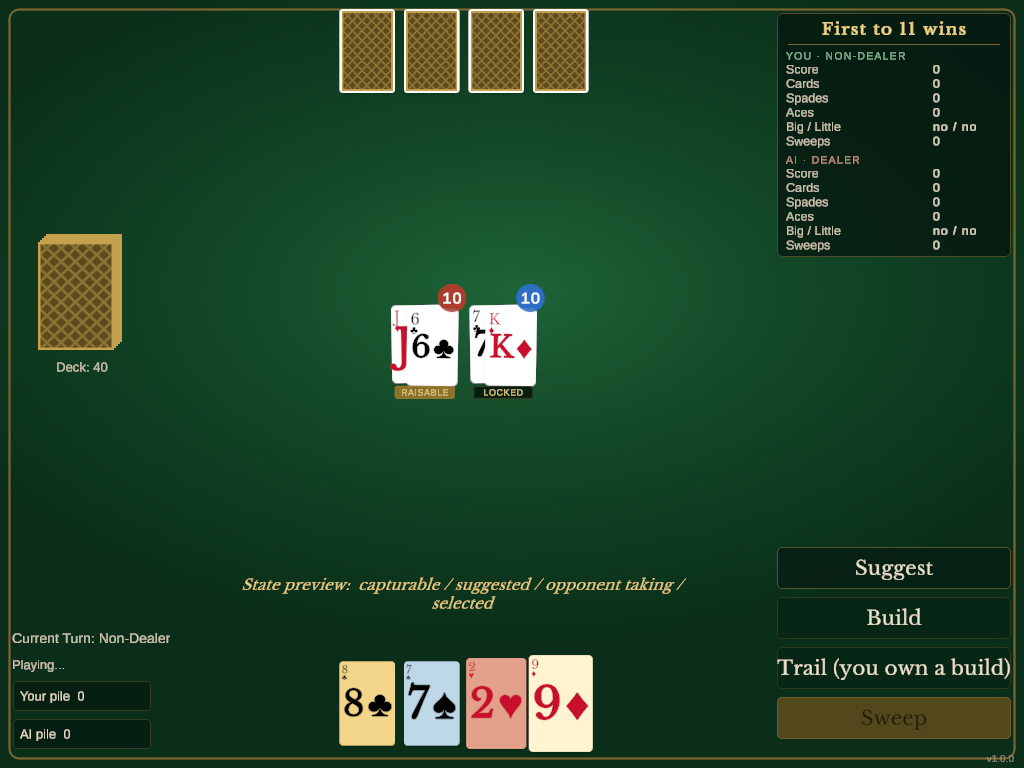
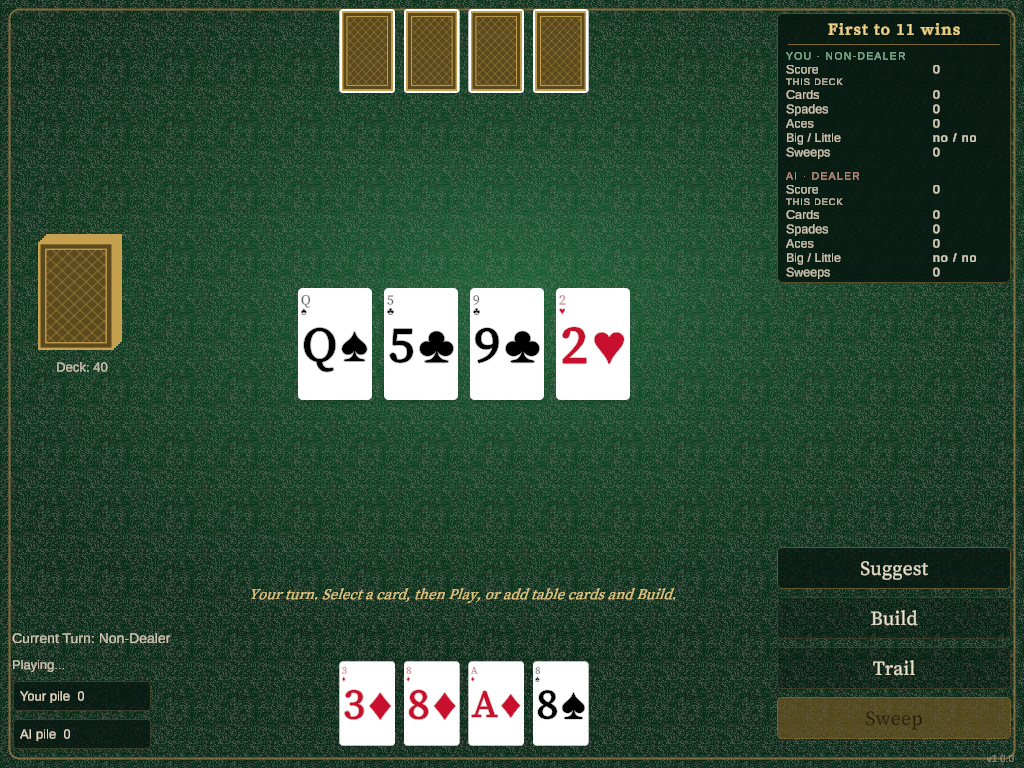
Photograph the build tags and card states in a real game, not a staged one
The plan has carried an open item since the Parlor port: the four card states and
the build tags compile and are wired to the right call sites, but had never been
seen on screen. Everything photographed so far came from an opening deal or from
a board staged by CasinoStatePreview, which proves the code runs, not that it is
connected to live game state.

CasinoAutoPlay now screenshots the first build of a game. It waits 1.2s first,
because firing the instant the build exists caught the table cards mid-scale:
honest, but useless as a reference shot.

The result (docs/design/parlor-build-inplay.png) turned out to cover more than
the build tags. In one frame, from genuine play: a player-owned build badge in
blue, against the AI's red badge captured in the same session, so both ownership
colours are confirmed; the RAISABLE tag that distinguishes a malleable single
build from a locked multi; and a table card tinted rust because the opponent is
about to take it.

Also checked in the shipped-UI shots that were only sitting in the gitignored
screenshots folder: round summary, game over, and the three layout profiles, with
a README table saying what each one is evidence of and how to retake it.

Stage 6 (DesignSync library) is parked, with the reason written down rather than
left as a silent gap. Its precondition was that the component vocabulary stops
moving, and in one day the modals went opaque and gained a scrim, the stat block
[…]

diff --git a/Assets/Scripts/CasinoAutoPlay.cs b/Assets/Scripts/CasinoAutoPlay.cs
@@ -53,6 +53,7 @@ public class CasinoAutoPlay : MonoBehaviour
 
     private static bool probeOnly;
     private int moves, rounds;
+    private bool shotBuild;
 
     [RuntimeInitializeOnLoadMethod(RuntimeInitializeLoadType.AfterSceneLoad)]
     private static void Install()
@@ -129,6 +130,25 @@ public class CasinoAutoPlay : MonoBehaviour
                 ui.ContinueSummary();
                 yield return new WaitForSecondsRealtime(MoveDelay);
                 continue;
+            }
+
+            // The build tags (RAISABLE / LOCKED) and the card-state colours have
+            // only ever been photographed on a board staged by CasinoStatePreview.
+            // A real build, made by real play, is the thing that proves they are
+            // wired to the live state and not just to the preview harness.
+            if (!shotBuild)
+            {
+                var builds = gm.GetActiveBuilds();
+                if (builds != null && builds.Count > 0)
+                {
+                    shotBuild = true;
+                    Mark($"first build on the table ({builds.Count}); capturing");
+                    // Let the tweens land. Firing the instant the build exists
+                    // caught table cards mid-scale, which is honest but useless
+                    // as a reference shot of the build tags.
+                    yield return new WaitForSecondsRealtime(1.2f);
+                    ScreenshotCapture.Capture("autoplay-build");
+                }
             }
 
             if (!gm.IsWaitingForHumanInput())

diff --git a/docs/UI-DESIGN-PLAN.md b/docs/UI-DESIGN-PLAN.md
@@ -1,9 +1,28 @@
 # Casino UI Design Plan
 
 Working plan for redesigning the game UI using Claude Code's design tooling.
-Written 2026-08-04. Status: **Direction A (Parlor) chosen. Stages 0-3 done,
-Stage 4 engine + first port landed. Remaining: type (Stage 5), portrait
-verification, card sizing from the profile.**
+Written 2026-08-04, status updated 2026-08-05.
+
+**Status: Direction A (Parlor) chosen. Stages 0 through 5 are done. Stage 6 is
+parked deliberately (see below). The UI has now been driven through complete
+games rather than opening deals, which is what surfaced the remaining defects.**
+
+What changed on 2026-08-05, once `CasinoAutoPlay` could finish a game:
+
+- The end of a game had never been seen. The game-over panel was an empty box
+  with a stock white button, and the result lived in 13pt corner text.
+- Modal panels at 0.96 alpha let the white cards behind them read through as
+  card-shaped patches. Both are opaque now, over a scrim.
+- The score panel's per-deck counts read as a career total that had reset;
+  they carry a `THIS DECK` label, which cost a row and a taller panel in all
+  three profiles.
+- Portrait's stat value column was a percentage tuned for a landscape rail, so
+  every number sat half a screen from its label.
+
+Two editor traps were fixed and are documented in `CLAUDE.md`: `runInBackground`
+was off (Play stops when the editor loses focus, which looks exactly like a
+hang), and `AutoVerifyPlay` could wedge the editor by restarting Play while a
+mode change was still in flight.
 
 ## Decisions already made (by Rick, 2026-08-04)
 
@@ -235,9 +254,14 @@ diffing the real `layout-report.txt` against the spec numbers.
   every path that makes a card goes through it or `SizeCard`: hand and table cards
   (`UIManager.cs:1426,1468`), deal ghosts (`:1207`), and build minis, which derive
   from `CardSize(0.7f)` rather than a second hardcoded number (`:1534`).
-- The four card states are verified to compile and to be wired to the right call
-  sites, but have not been seen on screen; that needs playing a hand with a build
-  on the table.
+- ~~The four card states have not been seen on screen~~ Resolved 2026-08-05 by
+  `CasinoAutoPlay`, which now screenshots the first build of a game once its
+  tweens settle. `docs/design/parlor-build-inplay.png` shows, in genuine play
+  rather than a staged board: a player-owned build badge in blue (the AI's is
+  red, captured in the same session), the `RAISABLE` tag distinguishing a single
+  build from a locked multi, and a table card tinted rust because the opponent is
+  about to take it. Staged previews proved these compiled; only a real game
+  proves they are wired to live state.
 
 **Stage 5 — Art assets. LANDED 2026-08-04, procedurally.**
 
@@ -263,9 +287,17 @@ a raster at fixed resolution.
 Remaining, if wanted: title art (there is no title screen), and a felt weave with
 direction rather than isotropic noise.
 
-**Stage 6 — DesignSync library**, only once the component vocabulary stops moving.
-Maintaining HTML components mirroring Unity components is real duplication cost and
-is only worth paying against a settled vocabulary.
+**Stage 6 — DesignSync library. PARKED, deliberately, 2026-08-05.**
+
+The condition for starting was that the component vocabulary stops moving. It has
+not. In a single day the modal panels went opaque and gained a scrim, the stat
+block grew a row and a scope label, the score zone changed height in all three
+profiles, and the game-over panel went from an empty box to three elements plus a
+themed button. Mirroring that in HTML now means maintaining two copies of a design
+still in flux, and the mirror would have been wrong four times over.
+
+Revisit after a stretch where a full autoplay game turns up no layout or state
+defects. That, rather than a date, is the signal that the vocabulary has settled.
 
 ## Known risk
 

diff --git a/docs/design/README.md b/docs/design/README.md
@@ -15,6 +15,24 @@ than minting a new one (see `docs/UI-DESIGN-PLAN.md` for the URLs).
 | `stage2-identity-spec.html` | 2 | Structural spec: token architecture, palette as a *reference* instantiation, four type roles, spacing scale, card anatomy, state vocabulary. Deliberately fixes structure and not skin, so it does not pre-empt the direction choice. |
 | `stage3-directions.html` | 3 | Three switchable boards, each live at exactly 1280x720. Interactive: clicking a hand card runs a JS port of `CaptureChecker` and reports the takeable sets. |
 | `stage3-*.png` | 3 | Reference renders of each direction, in case you want a look without a browser. |
+| `parlor-*.png` | 4-5 | Shots of the shipped Unity UI, not mockups. |
+
+## The shipped-UI shots
+
+These come out of `CasinoAutoPlay`, which plays a full game unattended and
+screenshots the moments worth keeping. That matters: everything before them was
+photographed on an opening deal or a board staged by `CasinoStatePreview`, which
+proves the code compiles and is wired, but not that it is wired to live state.
+
+| File | What it proves |
+|---|---|
+| `parlor-build-inplay.png` | Build badge in owner colour, the `RAISABLE` tag, and a table card tinted rust because the opponent is taking it. All from real play. |
+| `parlor-round-summary.png` | Deck scoring, over a scrim, with opaque panels. Earlier versions let the cards behind read through the panel. |
+| `parlor-gameover.png` | The end of a game: winner, final score, target, themed button. |
+| `parlor-wide-ingame.png`, `parlor-compact-ingame.png`, `parlor-portrait-ingame.png` | The three layout profiles. |
+
+To retake any of them: `echo full > autoplay.flag; echo run > auto-verify.flag`,
+then focus Unity. For a different profile, put `WxH` in `gameview.txt` first.
 
 The Stage 3 board is rigged to a position that exercises every gap Stage 2 found:
 a raisable opponent build of 5, a locked multi-build of 8 that is yours, and Trail
